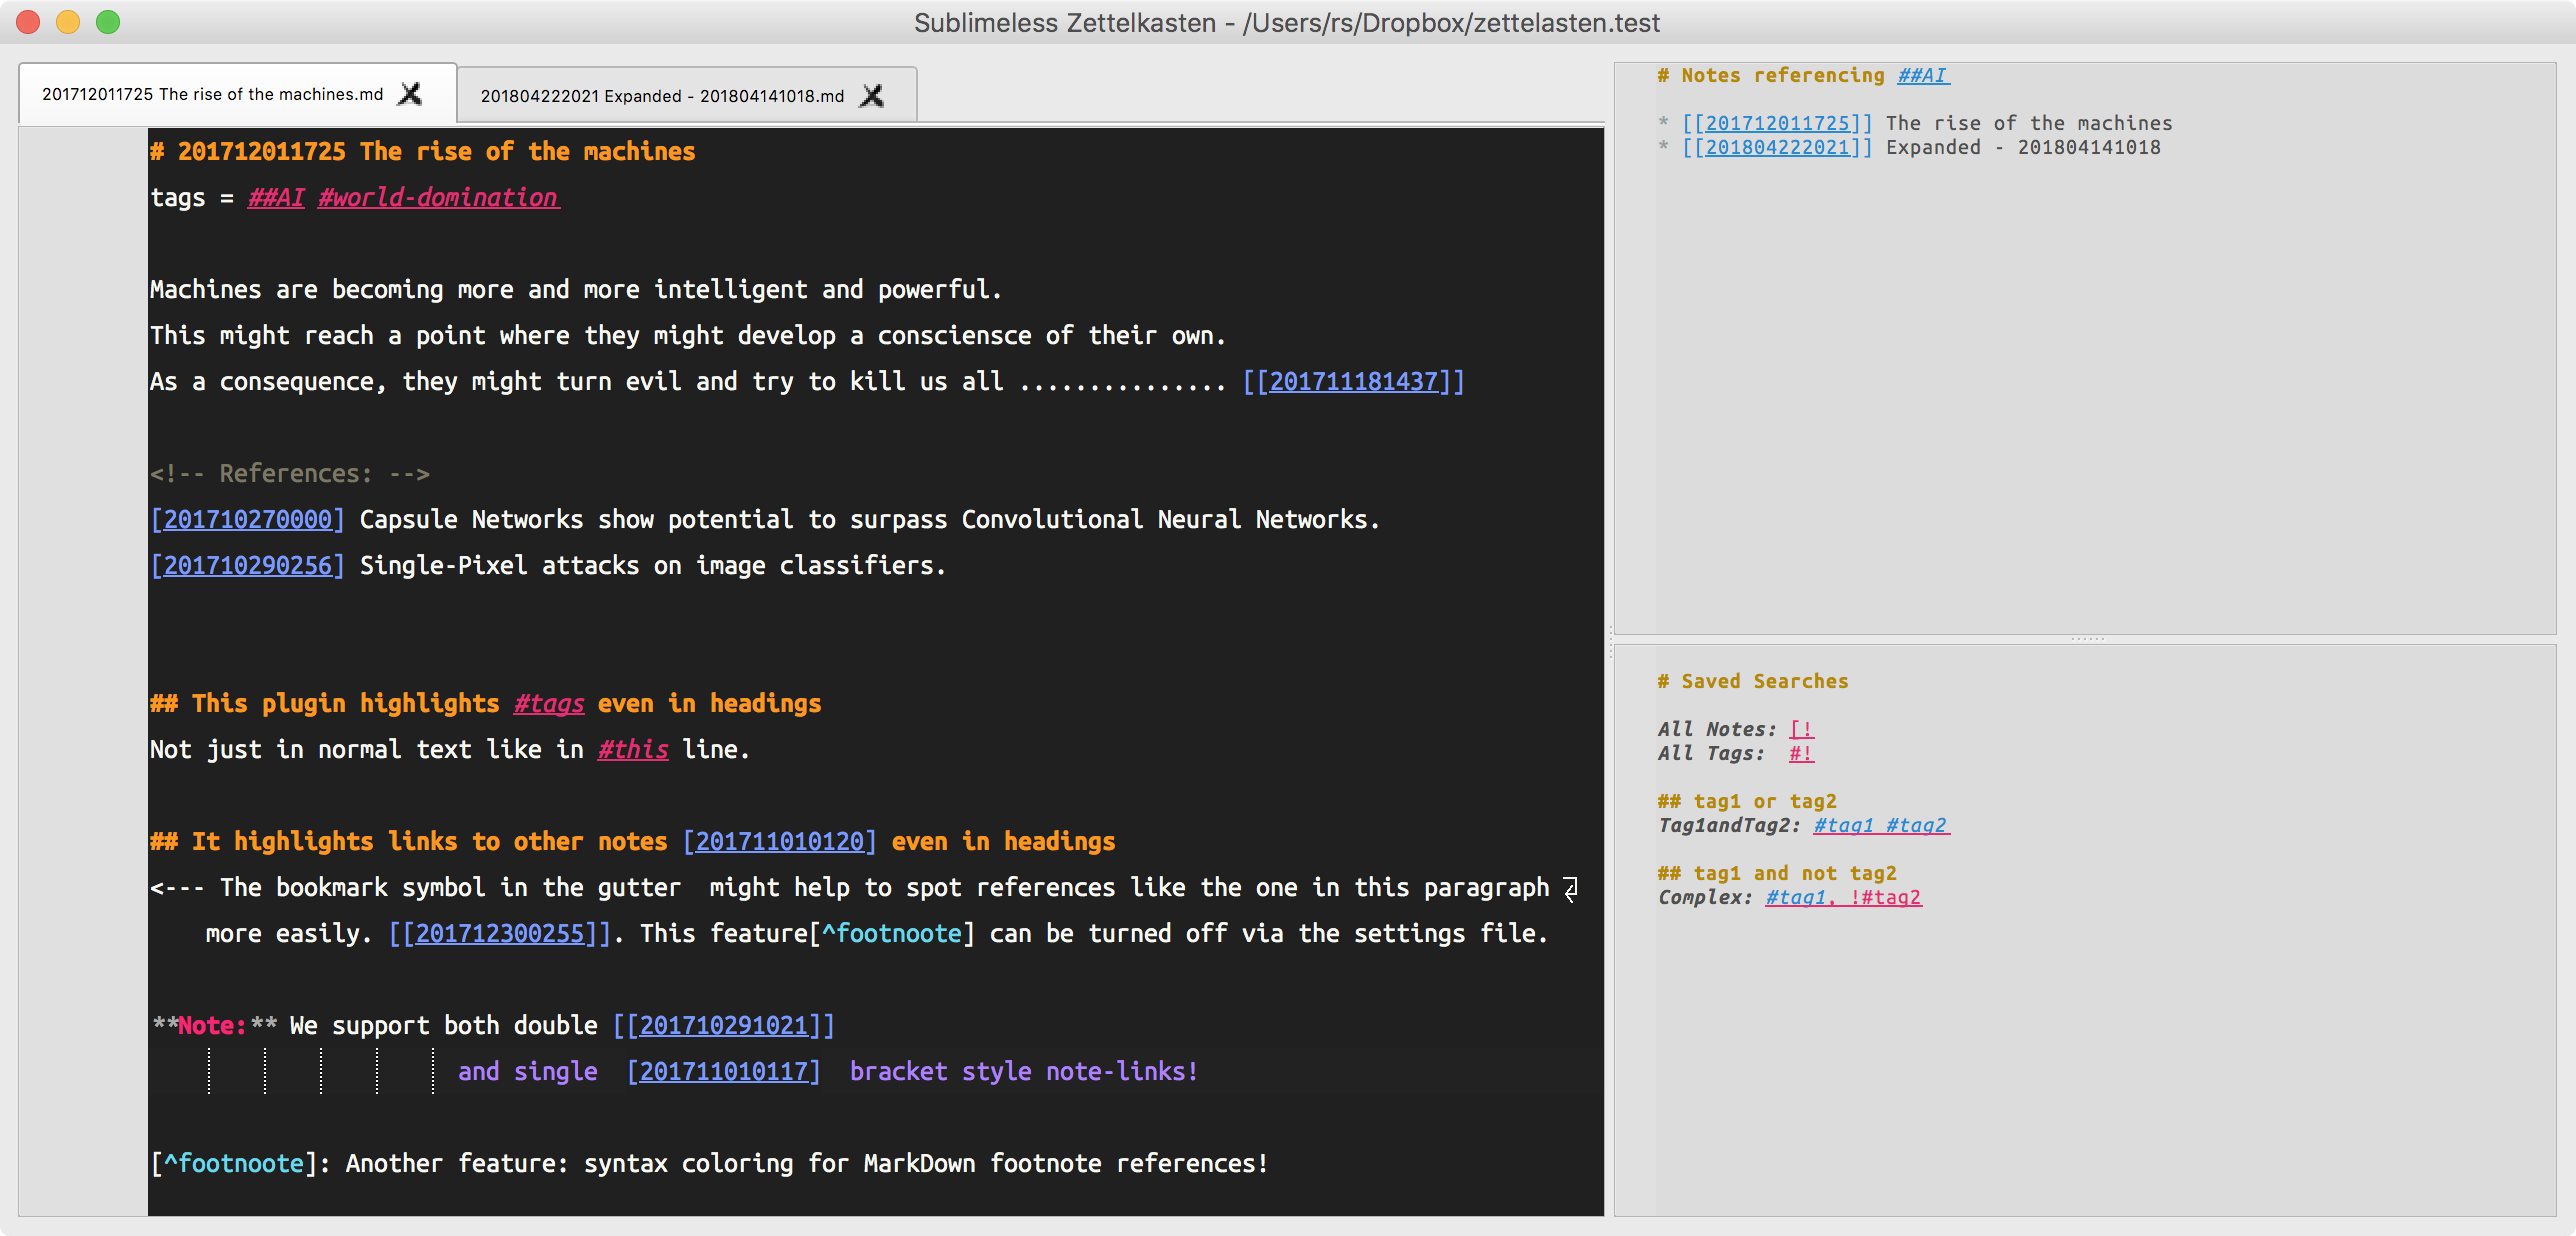
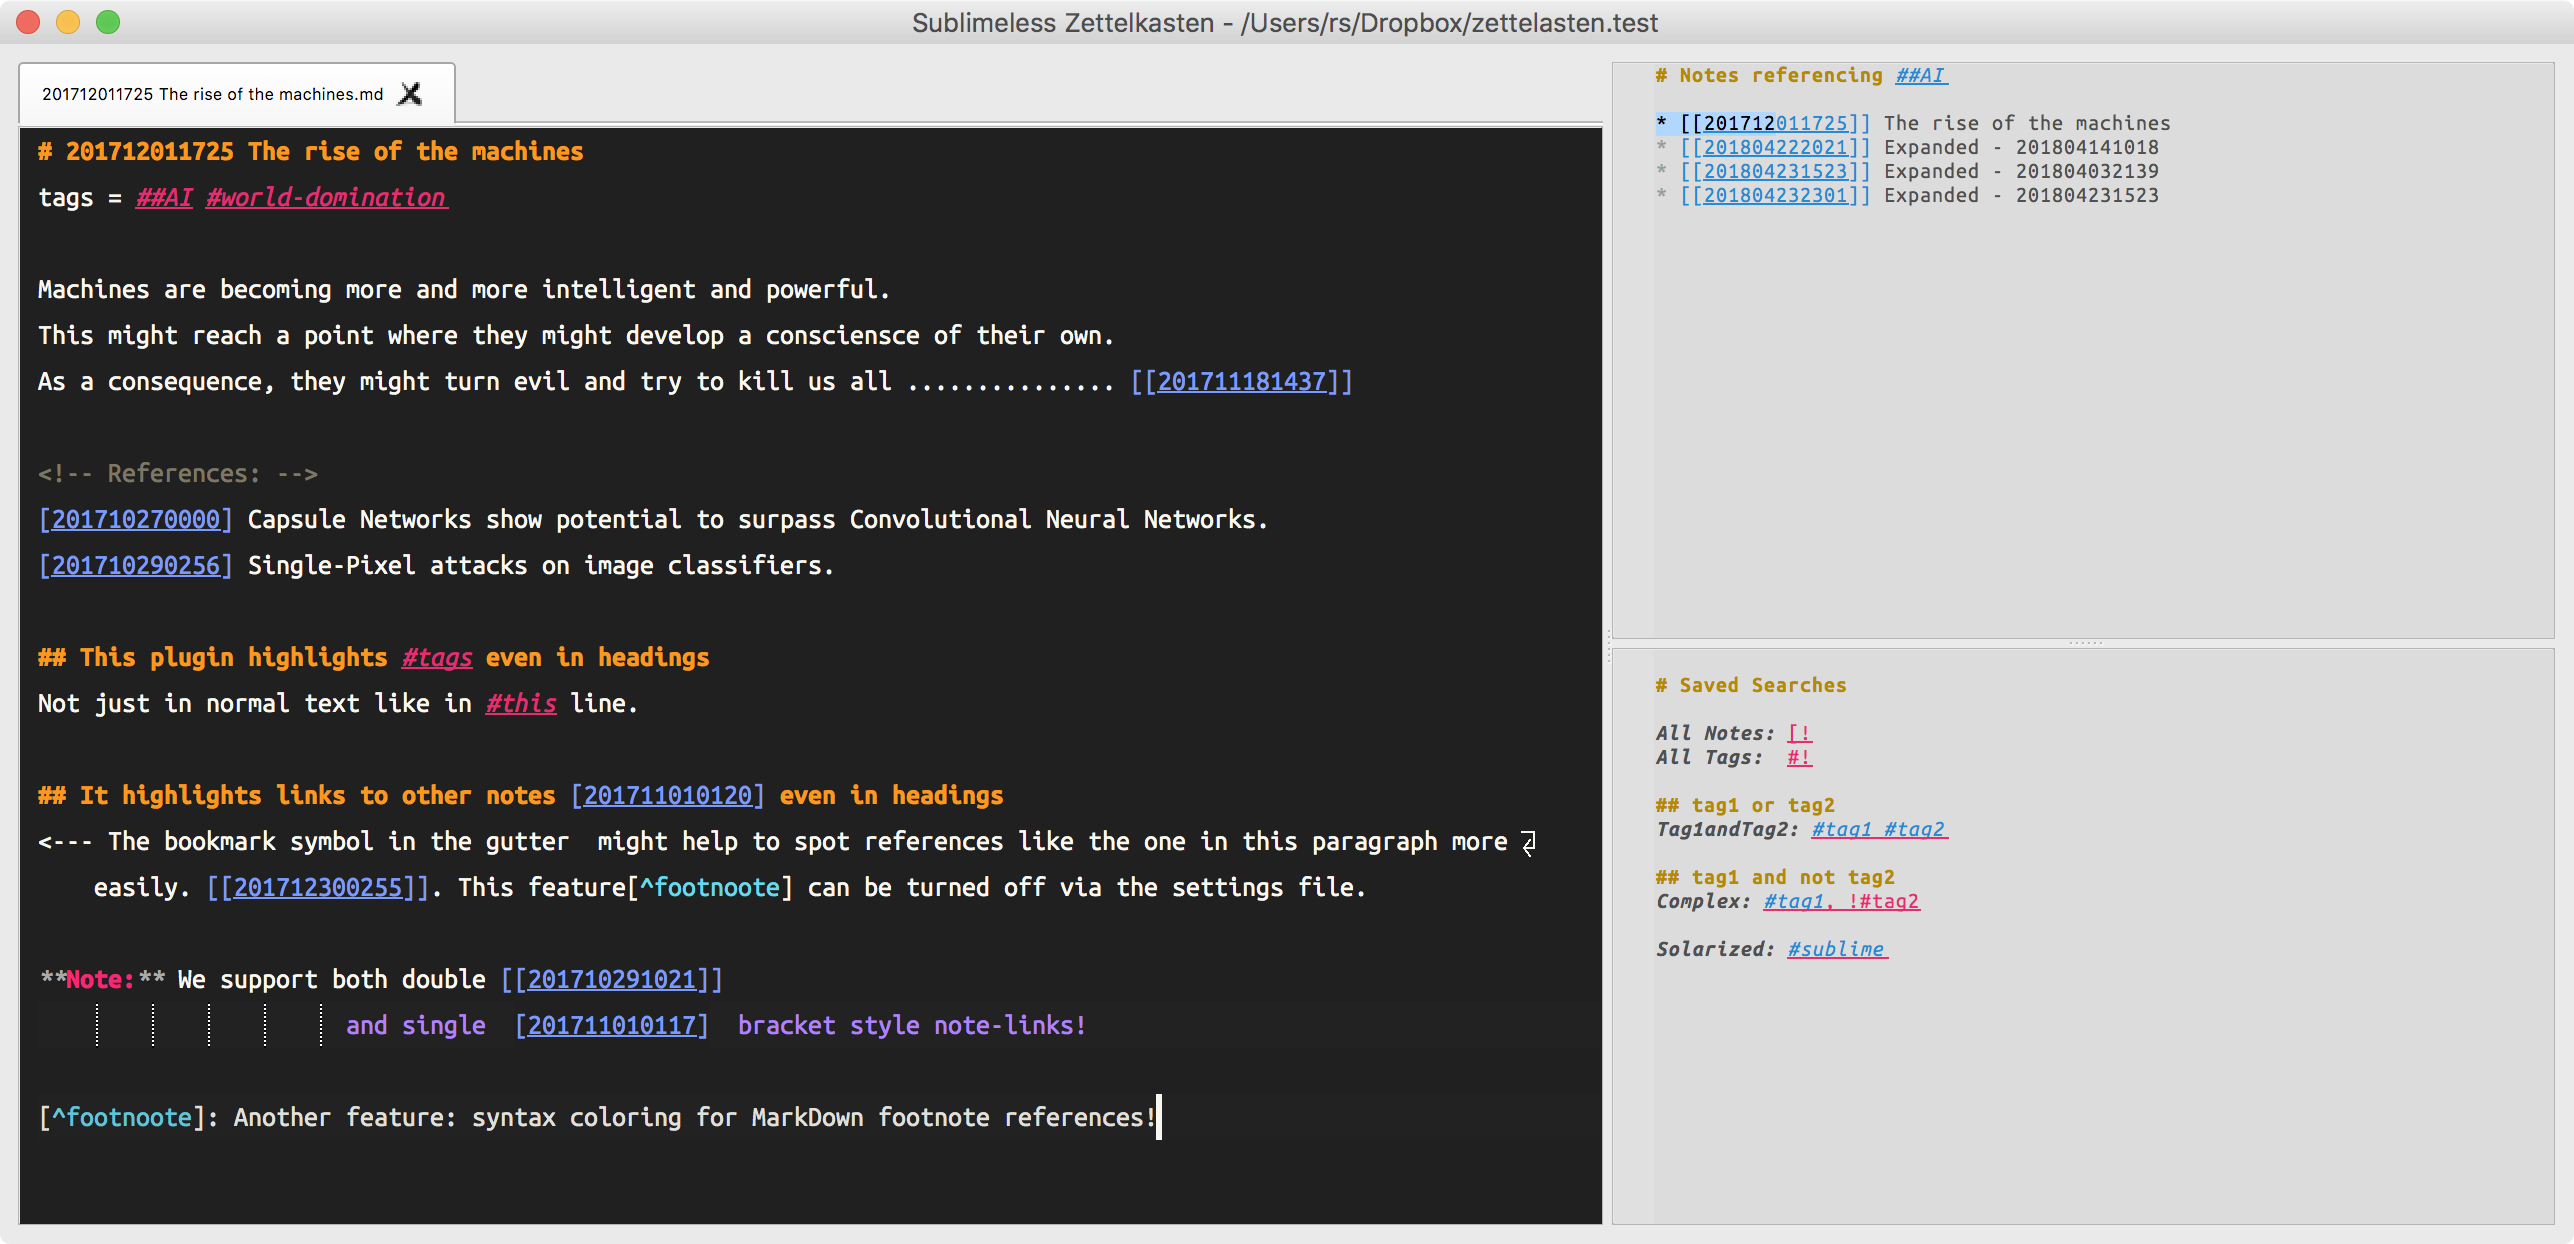
updated screen-shots to get rid of unused margin

diff --git a/README.md b/README.md
@@ -16,7 +16,7 @@ on Windows
 
 Solarized
 
-![solarized](imgs/windows1.png)
+![solarized](imgs/solarized.png)
 
 
 Settings
